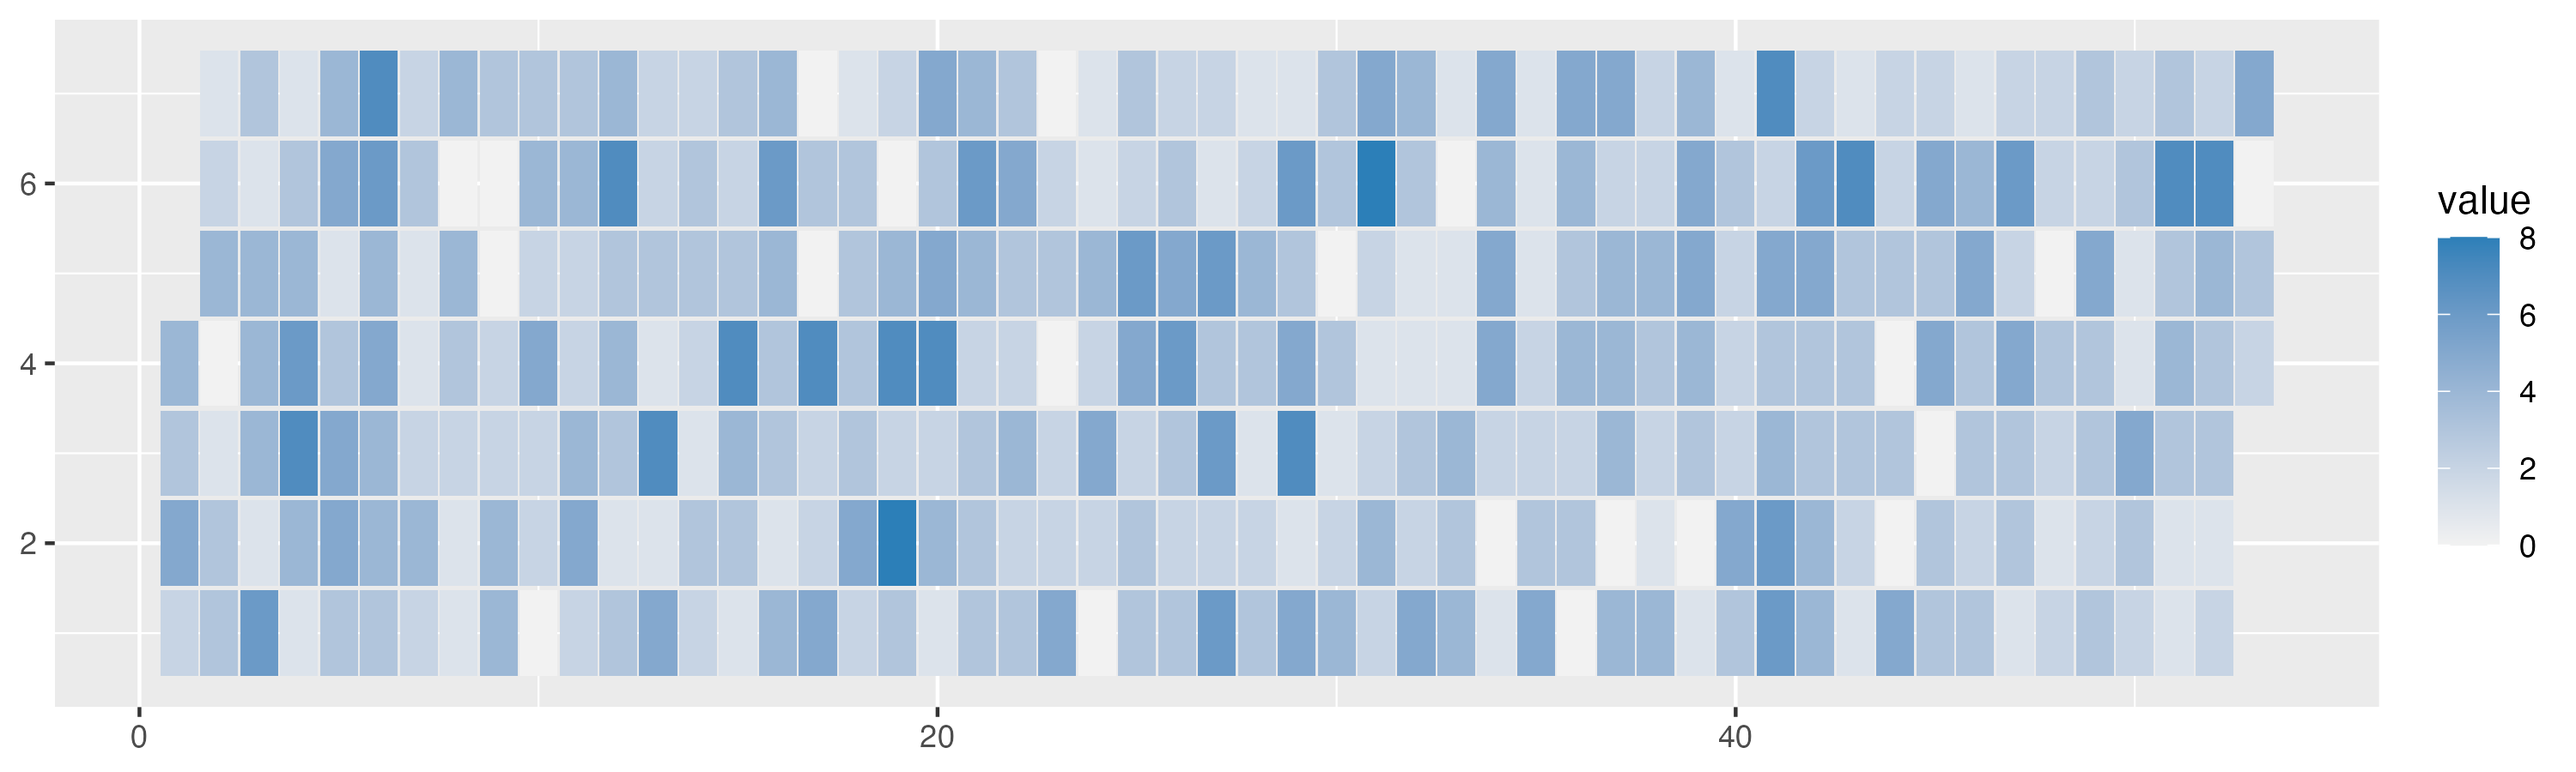
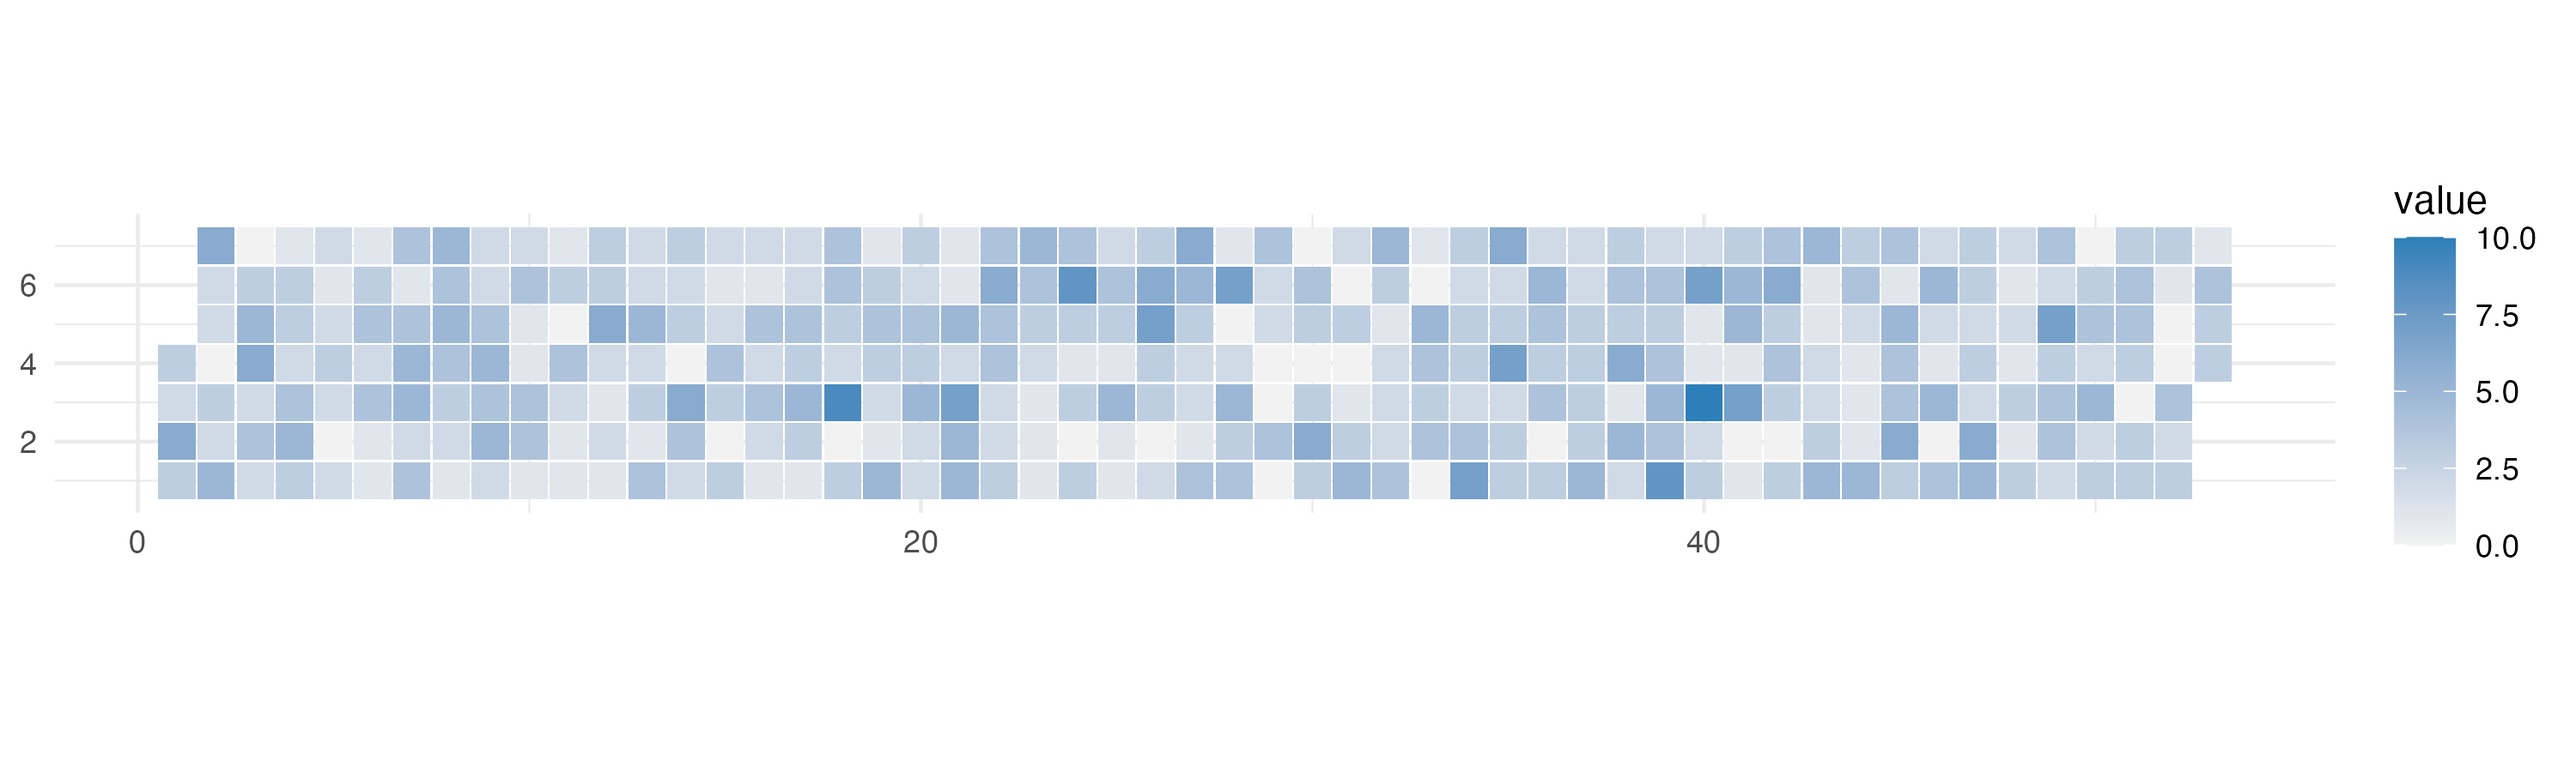
force square rectangle + doc

diff --git a/README.md b/README.md
@@ -14,41 +14,49 @@ remotes::install_github("y-sunflower/ggcalheat")
 
 ## Quick start
 
-```r
+```R
 library(ggplot2)
 library(ggcalheat)
 
 df <- data.frame(
   date = seq.Date(as.Date("2025-01-01"), as.Date("2025-12-31"), by = "day"),
-  value = rpois(90, lambda = 3)
+  value = rpois(365, lambda = 3)
 )
 
 ggplot(df, aes(date = date, value = value)) +
   geom_calendar() +
-  scale_fill_gradient(low = "grey95", high = "#2C7FB8")
+  scale_fill_gradient(low = "grey95", high = "#2C7FB8") +
+  theme_minimal()
 ```
 
-Signed values are supported directly with standard continuous scales:
+![](./vignettes/img/example-1.png)
+
+<br>
+
+- Signed values are supported directly with standard continuous scales:
 
 ```r
-df_signed <- data.frame(
-  date = seq.Date(as.Date("2025-01-01"), as.Date("2025-02-28"), by = "day"),
-  value = rnorm(59, mean = 0, sd = 2)
+df <- data.frame(
+  date = seq.Date(as.Date("2025-01-01"), as.Date("2025-12-31"), by = "day"),
+  value = rnorm(365, mean = 0, sd = 2)
 )
 
-ggplot(df_signed, aes(date = date, value = value)) +
+ggplot(df, aes(date = date, value = value)) +
   geom_calendar() +
   scale_fill_gradient2(
     low = "#B2182B",
     mid = "white",
     high = "#2166AC",
     midpoint = 0
-  )
+  ) +
+  theme_minimal()
 ```
+
+![](./vignettes/img/example-2.png)
 
 <br>
 
-## Interactive with ggiraph
+- Interactive with ggiraph
 
 ```r
 library(ggplot2)
@@ -57,12 +65,15 @@ library(ggiraph)
 
 gg <- ggplot(df, aes(date = date, value = value)) +
   geom_calendar_interactive(aes(
-    tooltip = paste("Date:", date, "\nValue:", value),
+    tooltip = paste("Date:", date, "\nValue:", round(value, 1)),
     data_id = as.character(date)
   )) +
-  scale_fill_gradient(low = "grey95", high = "#2C7FB8")
+  scale_fill_gradient(low = "white", high = "purple") +
+  theme_minimal()
 
 girafe(ggobj = gg)
 ```
+
+![](./vignettes/img/example-3.png)
 
 [See more examples](https://y-sunflower.github.io/ggcalheat/)
